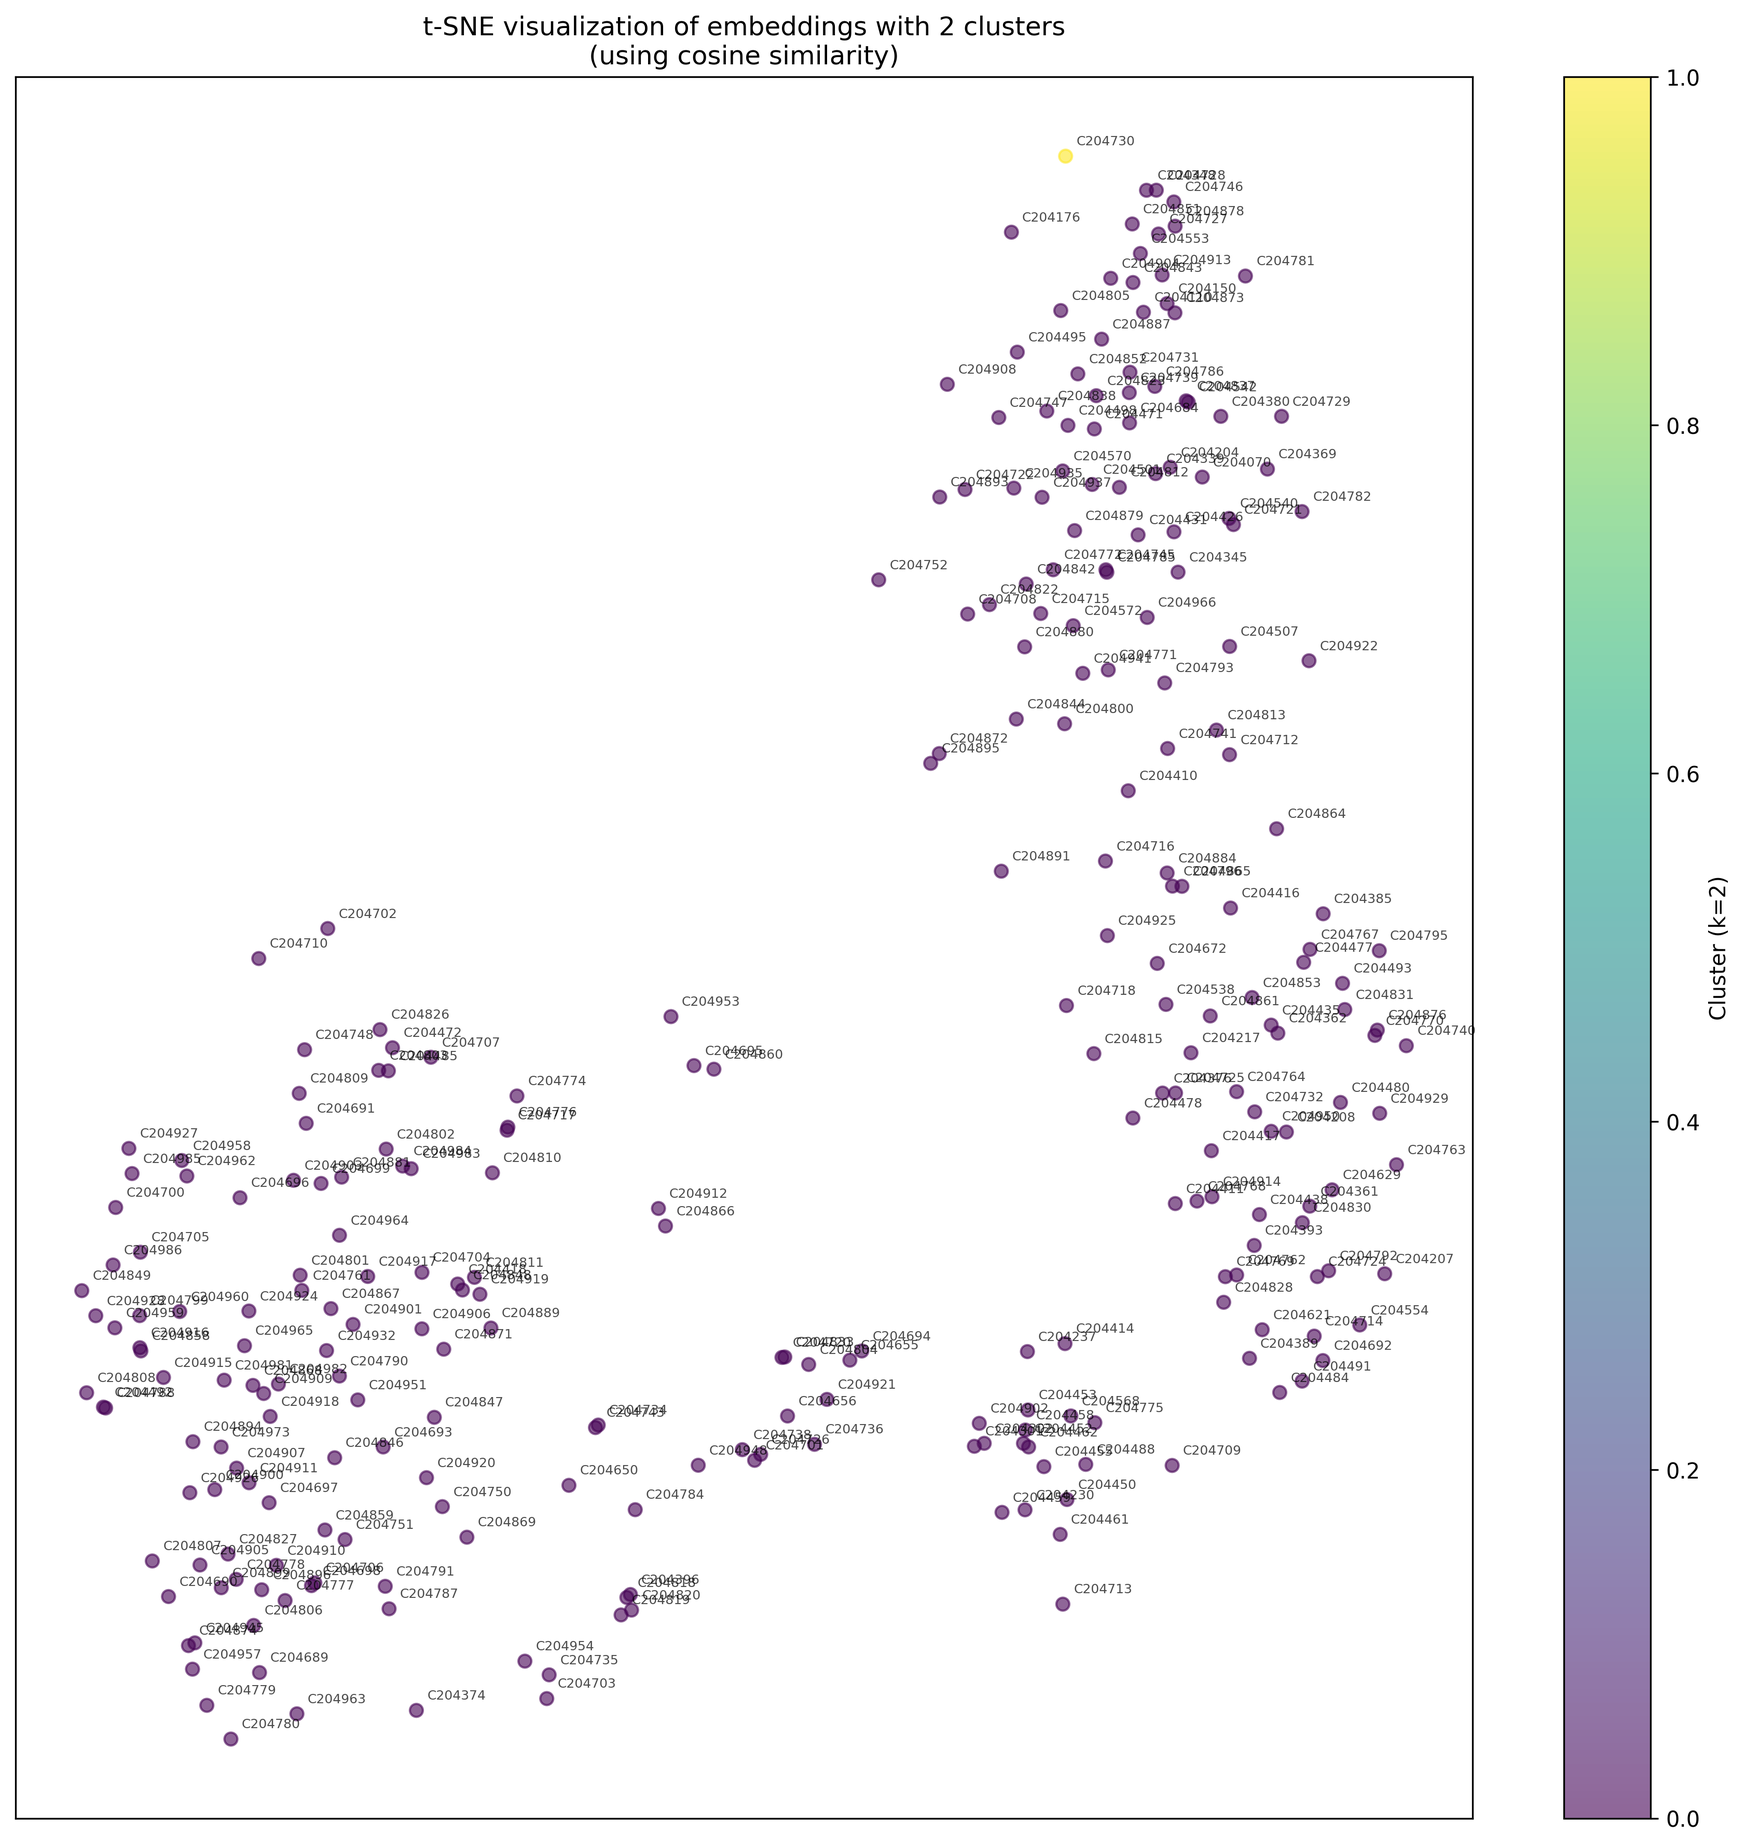
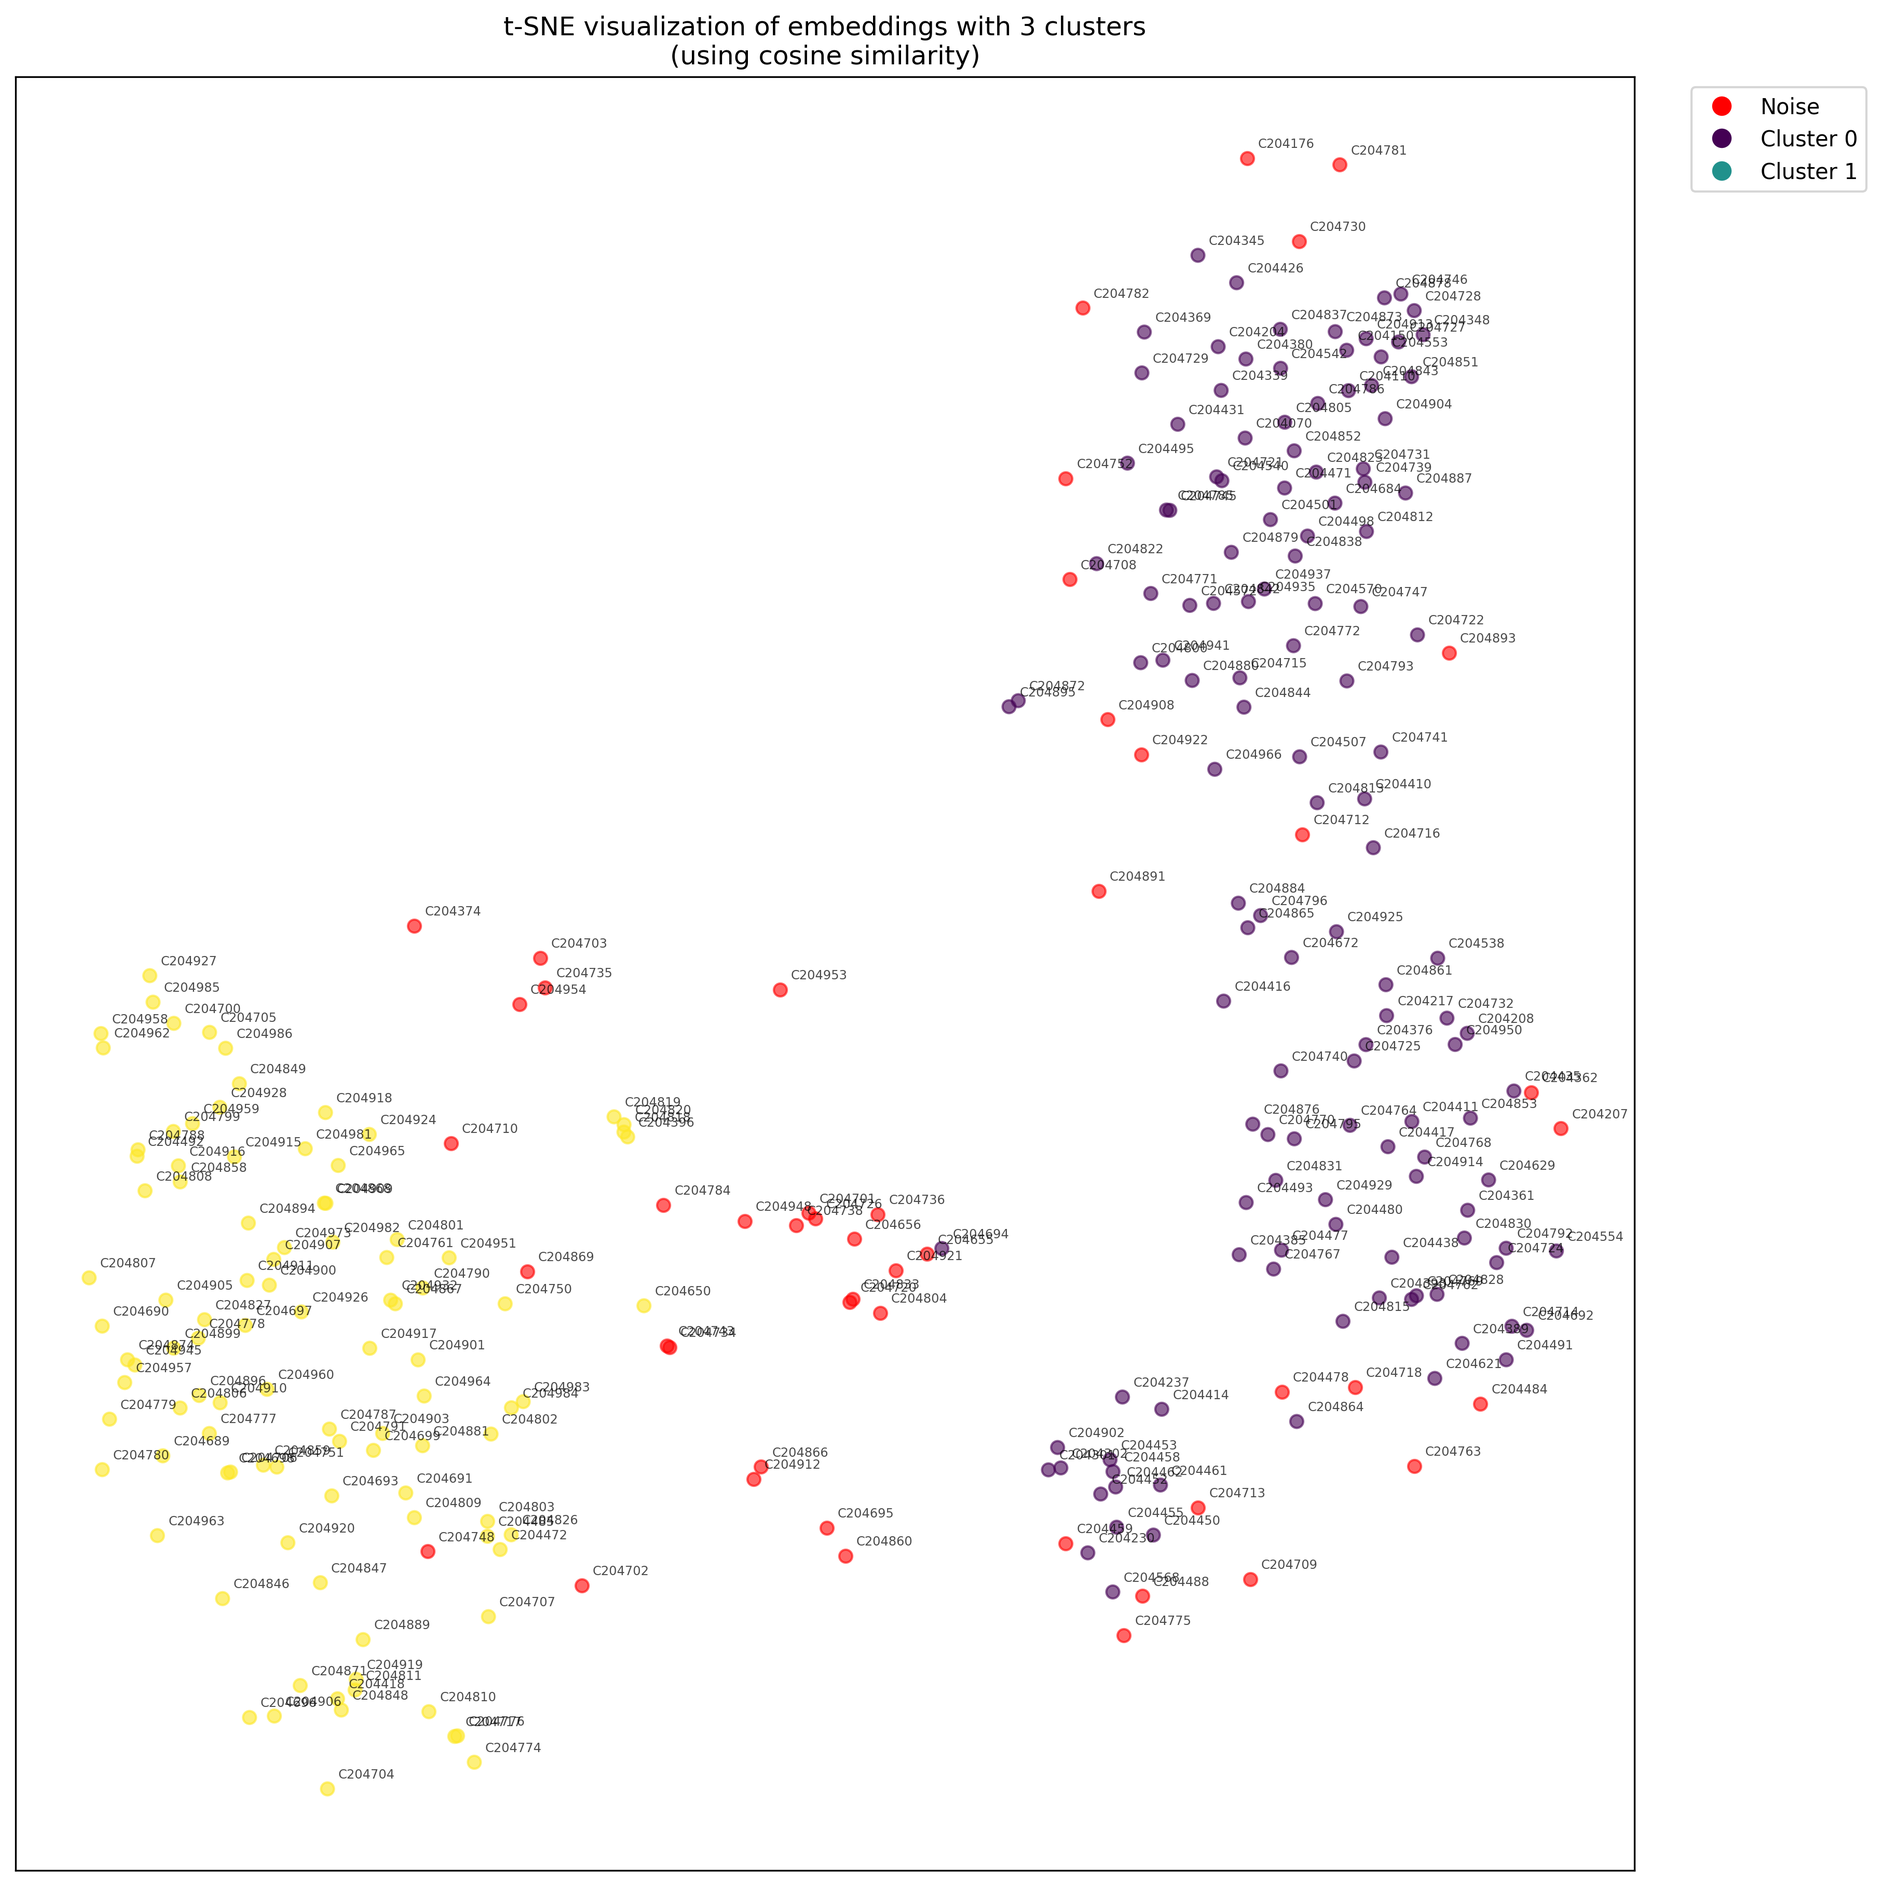
feat(clustering contracts): switched clustering from KMeans to DBSCAN

diff --git a/src/explore_jina_embeddings.py b/src/explore_jina_embeddings.py
@@ -4,184 +4,254 @@ from pathlib import Path
 
 import matplotlib.pyplot as plt
 import numpy as np
-from sklearn.cluster import AgglomerativeClustering
+from sklearn.cluster import KMeans, DBSCAN
 from sklearn.manifold import TSNE
 from sklearn.metrics import silhouette_score
 from sklearn.metrics.pairwise import cosine_similarity
 
 
-def find_optimal_clusters(embeddings, max_clusters=20):
-    silhouette_scores = []
-    n_clusters_range = range(2, max_clusters + 1)
+def find_optimal_parameters(embeddings):
+	silhouette_scores = []
+	valid_combinations = []
 
-    for n_clusters in n_clusters_range:
-        clustering = AgglomerativeClustering(
-            n_clusters=n_clusters,
-            metric="euclidean",  # changed from precomputed
-            linkage="average",
-        )
-        cluster_labels = clustering.fit_predict(embeddings)
-        # Calculate silhouette score using cosine metric directly
-        silhouette_avg = silhouette_score(
-            embeddings, cluster_labels, metric="cosine"
-        )
-        silhouette_scores.append(silhouette_avg)
-        print(f"Silhouette score for {n_clusters} clusters: {silhouette_avg}")
+	eps_range = np.arange(0.1, 5.1, 0.1)
+	min_samples_range = np.arange(2, 20, 1)
+	for eps in eps_range:
+		for min_samples in min_samples_range:
+			clustering = DBSCAN(eps=eps, min_samples=min_samples)
+			cluster_labels = clustering.fit_predict(embeddings)
+			
+			# Skip if there's only one cluster or all points are noise
+			n_clusters = len(set(cluster_labels)) - (1 if -1 in cluster_labels else 0)
+			if n_clusters < 2:
+				print(f"Skipping eps={eps}, min_samples={min_samples} - only {n_clusters} clusters")
+				silhouette_scores.append(-1)  # Use -1 to indicate invalid combination
+				continue
+				
+			# Calculate silhouette score using cosine metric directly
+			try:
+				silhouette_avg = silhouette_score(
+					embeddings, cluster_labels, metric="cosine"
+				)
+				silhouette_scores.append(silhouette_avg)
+				valid_combinations.append((eps, min_samples))
+				print(
+					f"Silhouette score for eps={eps} and min_samples={min_samples}: {silhouette_avg}"
+				)
+			except ValueError:
+				print(f"Error calculating silhouette score for eps={eps}, min_samples={min_samples}")
+				silhouette_scores.append(-1)
 
-    optimal_clusters = n_clusters_range[np.argmax(silhouette_scores)]
-    return optimal_clusters
+	# Find the best valid combination
+	valid_scores = [score for score in silhouette_scores if score != -1]
+	if not valid_scores:
+		print("Warning: No valid clustering found. Using default parameters.")
+		return 0.5, 5  # Default values
+		
+	best_idx = np.argmax(valid_scores)
+	return valid_combinations[best_idx]
 
 
-def plot_embeddings(filepath: Path, font_size=6, max_clusters=10):
-    plot_path = Path("plots")
-    plot_path.mkdir(exist_ok=True)
+def plot_embeddings(filepath: Path):
+	plot_path = Path("plots")
+	plot_path.mkdir(exist_ok=True)
 
-    # Load data
-    with open(filepath, "r") as f:
-        data = json.load(f)
+	# Load data
+	with open(filepath, "r") as f:
+		data = json.load(f)
 
-    labels = [instance["index"] for instance in data["data"]]
-    embeddings = [instance["embedding"] for instance in data["data"]]
-    embeddings = np.array(embeddings)
+	labels = [instance["index"] for instance in data["data"]]
+	embeddings = [instance["embedding"] for instance in data["data"]]
+	embeddings = np.array(embeddings)
 
-    # Find optimal number of clusters
-    n_clusters = find_optimal_clusters(embeddings, max_clusters)
-    print(f"\nOptimal number of clusters: {n_clusters}")
+	# Find optimal parameters
+	eps, min_samples = find_optimal_parameters(embeddings)
+	print(f"\nOptimal parameters: eps={eps}, min_samples={min_samples}")
 
-    # Perform clustering with optimal number
-    clustering = AgglomerativeClustering(
-        n_clusters=n_clusters,
-        metric="euclidean",  # changed from precomputed
-        linkage="average",
-    )
-    clusters = clustering.fit_predict(embeddings)
+	# Perform clustering with optimal parameters
+	clustering = DBSCAN(eps=eps, min_samples=min_samples)
+	clusters = clustering.fit_predict(embeddings)
 
-    # Create and fit TSNE
-    tsne = TSNE(
-        n_components=2,
-        random_state=0,
-        perplexity=min(30, len(embeddings) - 1),
-        metric="cosine",
-    )
-    embeddings_2d = tsne.fit_transform(embeddings)
+	# Create and fit TSNE
+	tsne = TSNE(
+		n_components=2,
+		random_state=0,
+		metric="cosine",
+	)
+	embeddings_2d = tsne.fit_transform(embeddings)
 
-    # Plot with improved styling
-    plt.figure(figsize=(12, 12))
+	plt.figure(figsize=(12, 12), layout="constrained")
 
-    # Create scatter plot with clusters
-    scatter = plt.scatter(
-        embeddings_2d[:, 0],
-        embeddings_2d[:, 1],
-        c=clusters,
-        cmap="viridis",
-        alpha=0.6,
-    )
+	# Create scatter plot with clusters
+	# First plot noise points in black
+	noise_mask = clusters == -1
+	if np.any(noise_mask):
+		plt.scatter(
+			embeddings_2d[noise_mask, 0],
+			embeddings_2d[noise_mask, 1],
+			c='red',
+			alpha=0.6,
+			label='Noise'
+		)
+	
+	# Then plot clustered points with colors
+	cluster_mask = ~noise_mask
+	if np.any(cluster_mask):
+		scatter = plt.scatter(
+			embeddings_2d[cluster_mask, 0],
+			embeddings_2d[cluster_mask, 1],
+			c=clusters[cluster_mask],
+			cmap="viridis",
+			alpha=0.6,
+		)
 
-    # Add labels with smaller font
-    for i, label in enumerate(labels):
-        plt.annotate(
-            label,
-            (embeddings_2d[i, 0], embeddings_2d[i, 1]),
-            xytext=(5, 5),
-            textcoords="offset points",
-            fontsize=font_size,
-            alpha=0.7,
-        )
+	# Add labels with smaller font
+	for i, label in enumerate(labels):
+		plt.annotate(
+			label,
+			(embeddings_2d[i, 0], embeddings_2d[i, 1]),
+			xytext=(5, 5),
+			textcoords="offset points",
+			fontsize="xx-small",
+			alpha=0.7,
+		)
 
-    # Add colorbar
-    plt.colorbar(scatter, label=f"Cluster (k={n_clusters})")
+	# Create legend
+	unique_clusters = np.unique(clusters[cluster_mask]) if np.any(cluster_mask) else []
+	legend_elements = []
+	
+	# Add noise to legend if present
+	if np.any(noise_mask):
+		legend_elements.append(plt.Line2D([0], [0], marker='o', color='w', 
+										markerfacecolor='red', 
+										label='Noise', markersize=10))
+	
+	# Add clusters to legend
+	for cluster in unique_clusters:
+		legend_elements.append(plt.Line2D([0], [0], marker='o', color='w', 
+										markerfacecolor=plt.cm.viridis(cluster/len(unique_clusters)), 
+										label=f'Cluster {cluster}', markersize=10))
+	
+	plt.legend(handles=legend_elements, loc='upper right', bbox_to_anchor=(1.15, 1))
 
-    plt.title(
-        f"t-SNE visualization of embeddings with {n_clusters} clusters\n(using cosine similarity)"
-    )
-    plt.xticks([])
-    plt.yticks([])
-    plt.tight_layout()
-    plt.savefig(plot_path / "tsne_clusters.png", dpi=300, bbox_inches="tight")
+	plt.title(
+		f"t-SNE visualization of embeddings with {len(np.unique(clusters))} clusters\n(using cosine similarity)"
+	)
+	plt.xticks([])
+	plt.yticks([])
+	plt.savefig(plot_path / "tsne_clusters.png", dpi=300, bbox_inches="tight")
 
-    # Plot silhouette scores
-    plt.figure(figsize=(10, 5))
-    silhouette_scores = []
-    n_clusters_range = range(2, max_clusters + 1)
+	# Plot silhouette scores
+	plt.figure(figsize=(10, 5), layout="constrained")
+	silhouette_scores = []
+	valid_combinations = []
 
-    for k in n_clusters_range:
-        clustering = AgglomerativeClustering(
-            n_clusters=k,
-            metric="euclidean",  # changed from precomputed
-            linkage="average",
-        )
-        cluster_labels = clustering.fit_predict(embeddings)
-        silhouette_scores.append(
-            silhouette_score(embeddings, cluster_labels, metric="cosine")
-        )
+	eps_range = np.arange(0.1, 5.1, 0.1)
+	min_samples_range = np.arange(2, 20, 1)
+	for eps in eps_range:
+		for min_samples in min_samples_range:
+			clustering = DBSCAN(eps=eps, min_samples=min_samples)
+			cluster_labels = clustering.fit_predict(embeddings)
+			
+			# Skip if there's only one cluster or all points are noise
+			n_clusters = len(set(cluster_labels)) - (1 if -1 in cluster_labels else 0)
+			if n_clusters < 2:
+				silhouette_scores.append(-1)  # Use -1 to indicate invalid combination
+				continue
+				
+			try:
+				score = silhouette_score(embeddings, cluster_labels, metric="cosine")
+				silhouette_scores.append(score)
+				valid_combinations.append((eps, min_samples))
+			except ValueError:
+				silhouette_scores.append(-1)
 
-    plt.plot(n_clusters_range, silhouette_scores, "bo-")
-    plt.xlabel("Number of Clusters (k)")
-    plt.ylabel("Silhouette Score")
-    plt.title(
-        "Silhouette Score vs Number of Clusters\n(using cosine similarity)"
-    )
-    plt.grid(True)
-    plt.tight_layout()
-    plt.savefig(
-        plot_path / "silhouette_scores.png", dpi=300, bbox_inches="tight"
-    )
+	# Reshape silhouette scores into a 2D array for the heatmap
+	scores_matrix = np.array(silhouette_scores).reshape(len(eps_range), len(min_samples_range))
+	
+	# Create heatmap
+	plt.figure(figsize=(14, 10)) 
+	im = plt.imshow(scores_matrix, cmap='viridis', aspect='auto', vmin=0, vmax=1)
+	
+	# Add colorbar
+	plt.colorbar(im, label='Silhouette Score')
+	
+	# Set ticks and labels
+	plt.xticks(np.arange(len(min_samples_range)), min_samples_range)
+	plt.yticks(np.arange(len(eps_range)), np.round(eps_range, 1))
+	plt.xlabel('Min Samples')
+	plt.ylabel('Epsilon (eps)')
+	plt.title('Silhouette Scores Heatmap for DBSCAN Parameters')
+	
+	# Add text annotations
+	for i in range(len(eps_range)):
+		for j in range(len(min_samples_range)):
+			score = scores_matrix[i, j]
+			if score != -1:  # Only add text for valid combinations
+				plt.text(j, i, f'{score:.2f}',
+						ha='center', va='center', color='white' if score < 0.5 else 'black')
+	
+	plt.tight_layout()
+	plt.savefig(plot_path / "silhouette_heatmap.png", dpi=300, bbox_inches="tight")
+	plt.close()
+
 
 
 def find_closest_neighbors(
-    filepath: Path, target_label: str, n_neighbors: int = 5
+	filepath: Path, target_label: str, n_neighbors: int = 5
 ):
-    # Load embeddings
-    with open(filepath, "r") as f:
-        data = json.load(f)
+	# Load embeddings
+	with open(filepath, "r") as f:
+		data = json.load(f)
 
-    # Create dictionary of label -> embedding
-    embeddings_dict = {
-        instance["index"]: instance["embedding"] for instance in data["data"]
-    }
+	# Create dictionary of label -> embedding
+	embeddings_dict = {
+		instance["index"]: instance["embedding"] for instance in data["data"]
+	}
 
-    if target_label not in embeddings_dict:
-        raise ValueError(f"Label '{target_label}' not found in embeddings")
+	if target_label not in embeddings_dict:
+		raise ValueError(f"Label '{target_label}' not found in embeddings")
 
-    # Get target embedding and all other embeddings
-    target_embedding = np.array(embeddings_dict[target_label]).reshape(1, -1)
+	# Get target embedding and all other embeddings
+	target_embedding = np.array(embeddings_dict[target_label]).reshape(1, -1)
 
-    # Calculate similarities
-    similarities = []
-    for label, embedding in embeddings_dict.items():
-        if label != target_label:  # Skip comparing with itself
-            similarity = cosine_similarity(
-                target_embedding, np.array(embedding).reshape(1, -1)
-            )[0][0]
-            similarities.append((label, similarity))
+	# Calculate similarities
+	similarities = []
+	for label, embedding in embeddings_dict.items():
+		if label != target_label:  # Skip comparing with itself
+			similarity = cosine_similarity(
+				target_embedding, np.array(embedding).reshape(1, -1)
+			)[0][0]
+			similarities.append((label, similarity))
 
-    # Sort by similarity and get top n_neighbors
-    closest = sorted(similarities, key=lambda x: x[1], reverse=True)[
-        :n_neighbors
-    ]
+	# Sort by similarity and get top n_neighbors
+	closest = sorted(similarities, key=lambda x: x[1], reverse=True)[
+		:n_neighbors
+	]
 
-    # Print results nicely formatted
-    print(f"\nTop {n_neighbors} closest neighbors to '{target_label}':")
-    print("-" * 50)
-    for label, similarity in closest:
-        print(f"Label: {label:<30} Similarity: {similarity:.4f}")
+	# Print results nicely formatted
+	print(f"\nTop {n_neighbors} closest neighbors to '{target_label}':")
+	print("-" * 50)
+	for label, similarity in closest:
+		print(f"Label: {label:<30} Similarity: {similarity:.4f}")
 
-    return closest
+	return closest
 
 
 if __name__ == "__main__":
-    filepath = Path("embeddings") / "jina_embedding_proposalIndex_response.json"
-    plot_embeddings(filepath, font_size=6, max_clusters=20)
-    subprocess.run(["open", "plots/tsne_clusters.png"])
-    subprocess.run(["open", "plots/silhouette_scores.png"])
+	filepath = Path("embeddings") / "jina_embedding_proposalIndex_response.json"
+	plot_embeddings(filepath)
+	subprocess.run(["open", "plots/tsne_clusters.png"])
+	subprocess.run(["open", "plots/silhouette_heatmap.png"])
+	exit()
 
-    input_label = input("Enter the target label: ")
-    data_path = Path("nc_csv")
-    while input_label != "exit":
-        neighbors = find_closest_neighbors(filepath, input_label)
-        open_excels = input("Open Excel files? (y/n): ")
-        if open_excels == "y":
-            subprocess.run(["open", data_path / f"{input_label}.csv"])
-            for label, _ in neighbors[:3]:
-                subprocess.run(["open", data_path / f"{label}.csv"])
-        input_label = input("Enter the target label: ")
+	input_label = input("Enter the target label: ")
+	data_path = Path("nc_csv")
+	while input_label != "exit":
+		neighbors = find_closest_neighbors(filepath, input_label)
+		open_excels = input("Open Excel files? (y/n): ")
+		if open_excels == "y":
+			subprocess.run(["open", data_path / f"{input_label}.csv"])
+			for label, _ in neighbors[:3]:
+				subprocess.run(["open", data_path / f"{label}.csv"])
+		input_label = input("Enter the target label: ")
